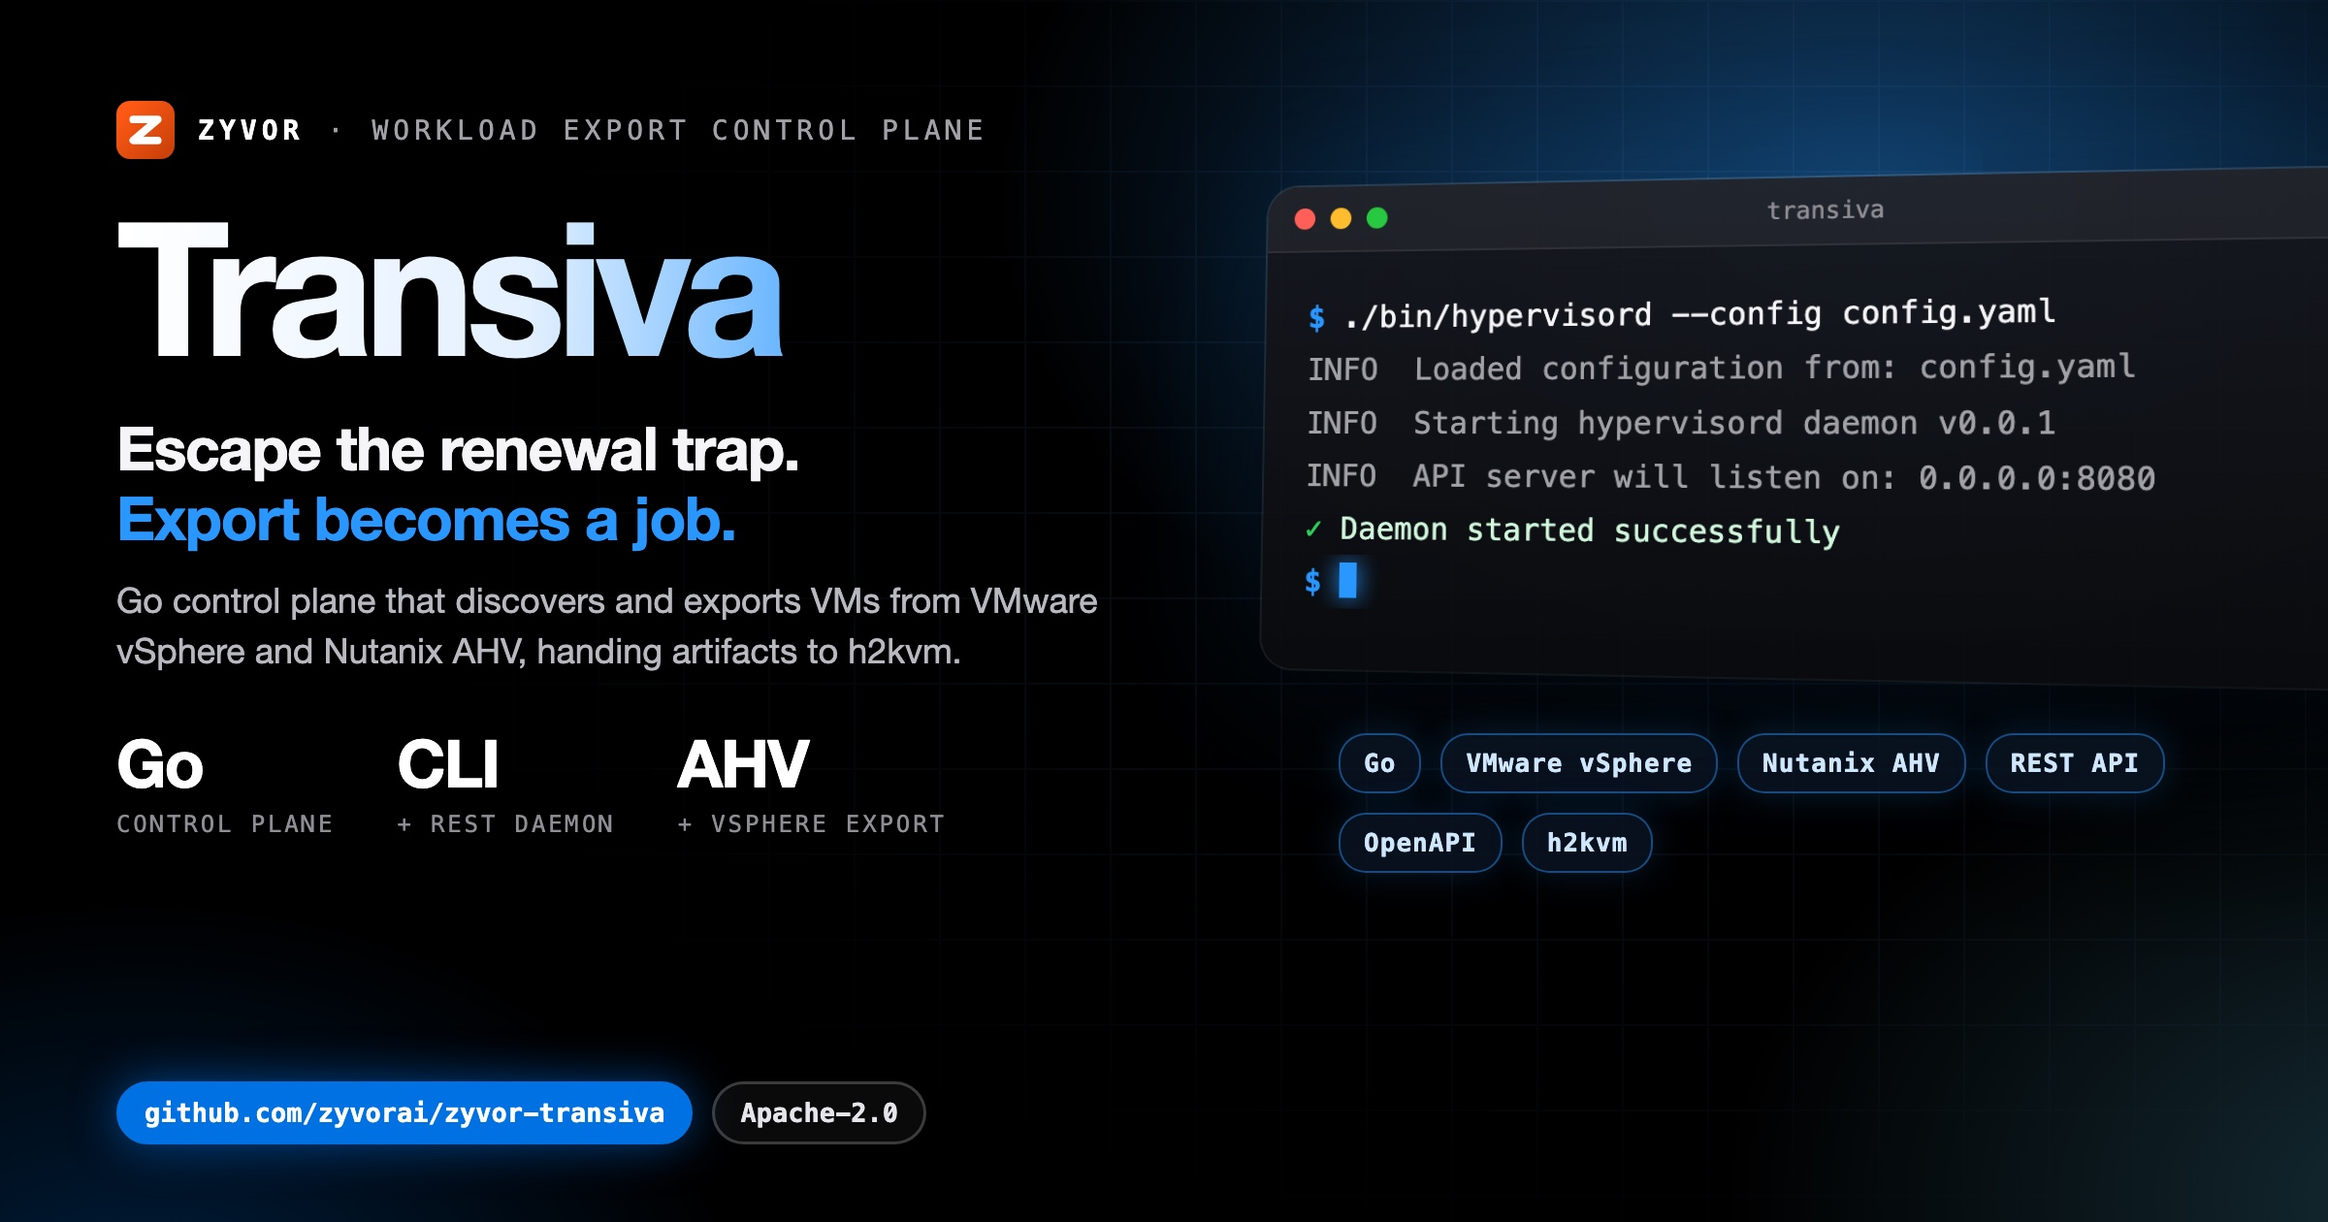
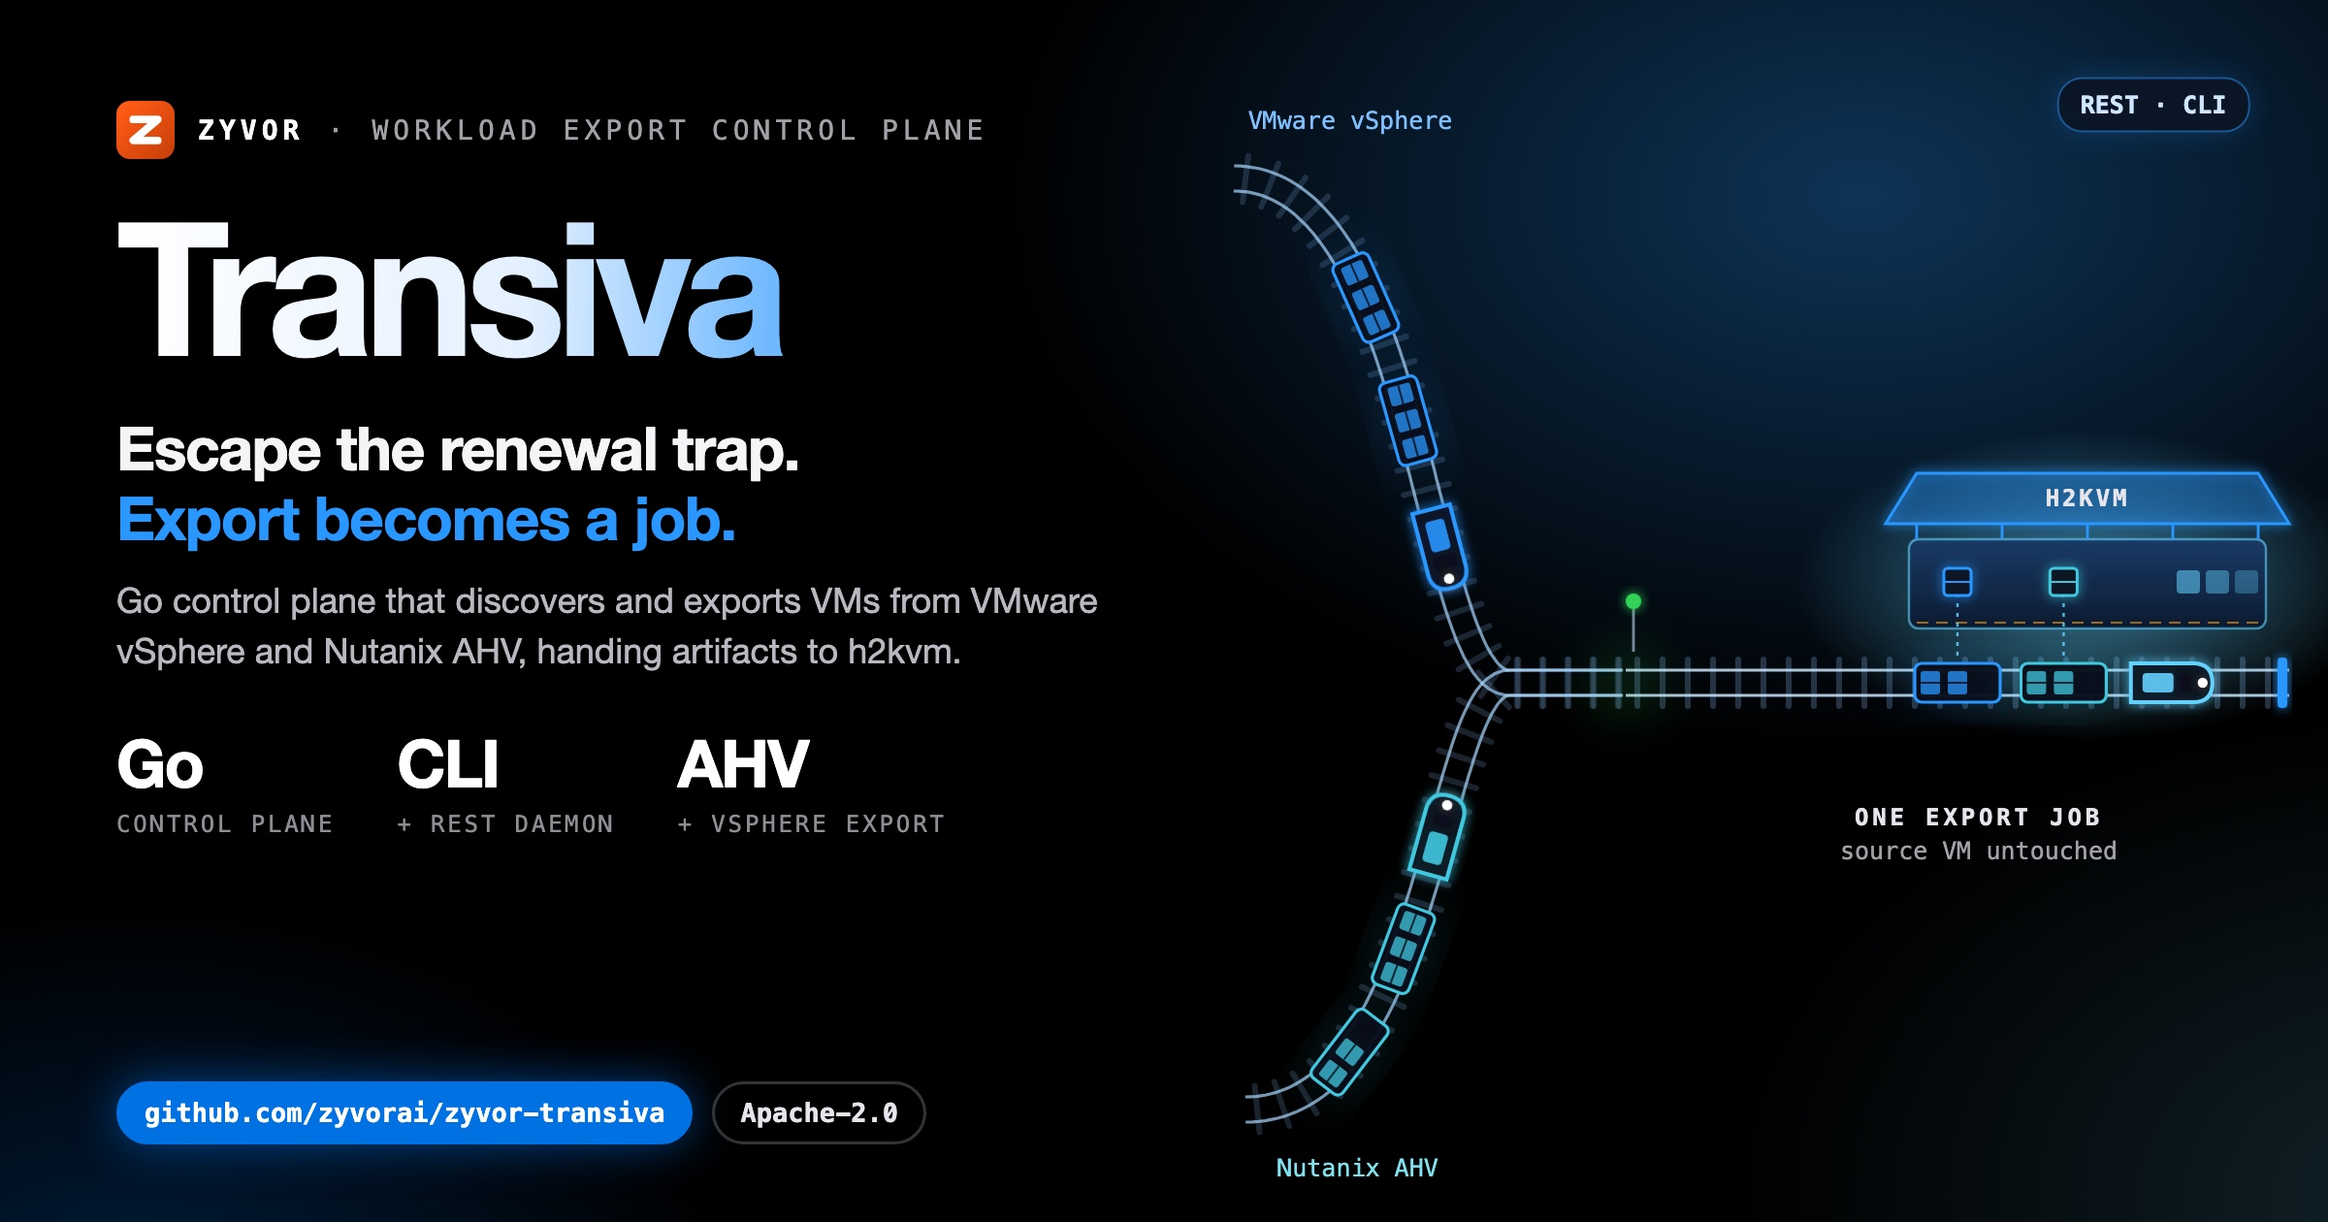
docs(social): unique illustrated hero card
Replace the shared terminal-window art with a motif drawn for this project;
same verified copy and stats on the left.

Changed region(s): [[0.5312, 0.0619, 1.0, 0.9286], [0.5625, 0.9286, 0.625, 0.9595]]

diff --git a/docs/social/transiva-hero-dark.html b/docs/social/transiva-hero-dark.html
@@ -8,58 +8,47 @@
   Build: ./docs/social/build-hero-dark.sh  ->  transiva-hero-dark.jpg (2400x1260)
 -->
 <style>
-  :root { --blue:#0071e3; --signal:#2997ff; --cyan:#64d2ff; --green:#30d158; --amber:#ff9f0a;
+  :root { --blue:#0071e3; --signal:#2997ff; --cyan:#64d2ff; --green:#30d158; --amber:#ff9f0a; --red:#ff453a; --violet:#bf5af2;
     --sans:'SF Pro Display','Helvetica Neue',Helvetica,Arial,sans-serif; --mono:'SF Mono',Menlo,Consolas,monospace; }
   * { box-sizing:border-box; }
   html,body { margin:0; padding:0; }
   body { width:1200px; height:630px; overflow:hidden; color:#f5f5f7; font-family:var(--sans); position:relative; background:#000; }
   .aurora { position:absolute; inset:0;
-    background:radial-gradient(720px 460px at 80% 16%, rgba(41,151,255,.40), transparent 62%),
-               radial-gradient(600px 420px at 104% 98%, rgba(100,210,255,.20), transparent 60%),
+    background:radial-gradient(720px 460px at 80% 16%, rgba(41,151,255,.34), transparent 62%),
+               radial-gradient(600px 420px at 104% 98%, rgba(100,210,255,.16), transparent 60%),
                radial-gradient(520px 380px at 6% 110%, rgba(0,113,227,.28), transparent 60%); }
-  .grid { position:absolute; inset:0; opacity:.09;
-    background-image:linear-gradient(rgba(120,180,255,.9) 1px,transparent 1px),linear-gradient(90deg,rgba(120,180,255,.9) 1px,transparent 1px);
-    background-size:44px 44px; -webkit-mask-image:radial-gradient(900px 520px at 72% 42%, #000 18%, transparent 75%); }
-  .left { position:absolute; left:60px; top:52px; width:560px; z-index:3; }
+  .copy { position:absolute; left:60px; top:52px; width:560px; z-index:3; }
   .brand { display:flex; align-items:center; gap:12px; font-family:var(--mono); font-size:14px; letter-spacing:.18em; text-transform:uppercase; color:#a1a1a6; }
   .brand b { color:#fff; }
   .word { margin:20px 0 0; font-size:96px; line-height:.95; font-weight:800; letter-spacing:-.05em; white-space:nowrap;
     background:linear-gradient(92deg,#fff 0%,#e3f0ff 38%,var(--signal) 74%,var(--cyan) 100%); -webkit-background-clip:text; background-clip:text; color:transparent; padding-bottom:6px; }
   .tag { margin:14px 0 0; font-size:31px; line-height:1.15; font-weight:700; letter-spacing:-.02em; }
   .tag em { font-style:normal; color:var(--signal); }
-  .lede { margin:12px 0 0; font-size:18px; line-height:1.45; color:#b8b8bf; width:520px; }
+  .lede { margin:12px 0 0; font-size:18px; line-height:1.45; color:#b8b8bf; width:520px; text-shadow:0 1px 12px #000; }
   .stats { margin-top:24px; display:flex; gap:32px; }
   .stat b { display:block; font-size:34px; font-weight:800; letter-spacing:-.03em; color:#fff; }
   .stat span { font-family:var(--mono); font-size:12px; letter-spacing:.12em; text-transform:uppercase; color:#8e8e93; }
   .pill { position:absolute; left:60px; bottom:40px; display:flex; gap:10px; z-index:3; }
-  .pill span { font-family:var(--mono); font-size:13.5px; font-weight:700; padding:7px 13px; border-radius:18px; border:1.5px solid rgba(255,255,255,.2); color:#e5e5ea; background:rgba(255,255,255,.04); }
+  .pill span { font-family:var(--mono); font-size:13.5px; font-weight:700; padding:7px 13px; border-radius:18px; border:1.5px solid rgba(255,255,255,.2); color:#e5e5ea; background:rgba(0,0,0,.6); }
   .pill span.b { background:var(--blue); border-color:var(--blue); color:#fff; box-shadow:0 0 24px rgba(0,113,227,.55); }
-
-  .right { position:absolute; left:652px; top:96px; width:560px; z-index:2; }
-  .win { position:relative; width:560px; border-radius:16px; overflow:hidden; z-index:2;
-    background:linear-gradient(180deg, rgba(22,24,30,.94), rgba(10,11,14,.96));
-    box-shadow:0 50px 100px rgba(0,0,0,.75), 0 0 0 1px rgba(255,255,255,.14), 0 0 90px rgba(41,151,255,.22);
-    transform:perspective(1600px) rotateY(-14deg) rotateX(4deg); transform-origin:left center; }
-  .bar { height:34px; display:flex; align-items:center; gap:8px; padding:0 14px; background:rgba(255,255,255,.05); border-bottom:1px solid rgba(255,255,255,.07); }
-  .bar i { width:11px; height:11px; border-radius:50%; background:#ff5f57; } .bar i:nth-child(2){background:#febc2e} .bar i:nth-child(3){background:#28c840}
-  .bar em { margin-left:auto; margin-right:auto; font-style:normal; font-family:var(--mono); font-size:12px; color:#8e8e93; transform:translateX(-24px); }
-  .term { min-height:214px; padding:20px 22px 24px; font-family:var(--mono); font-size:15.5px; line-height:1.75; }
-  .l { white-space:pre; overflow:hidden; text-overflow:ellipsis; color:#f5f5f7; }
-  .l .p { color:var(--signal); font-weight:700; }
-  .l.out { color:#a1a1a6; }
-  .l.cm { color:#6e6e73; }
-  .l.ok { color:#d1f7dc; } .l.ok span { color:var(--green); font-weight:700; }
-  .l.warn { color:#ffe1b0; } .l.warn span { color:var(--amber); font-weight:700; }
-  .cur { display:inline-block; width:9px; height:18px; background:var(--signal); vertical-align:-3px; box-shadow:0 0 12px var(--signal); }
-  .chips { margin:34px 0 0 38px; width:480px; display:flex; flex-wrap:wrap; gap:10px; position:relative; z-index:3; }
-  .chips span { font-family:var(--mono); font-size:13px; font-weight:700; letter-spacing:.04em; padding:7px 12px; border-radius:14px;
-    color:#cfe6ff; background:rgba(10,20,35,.82); border:1px solid rgba(41,151,255,.45); box-shadow:0 0 18px rgba(41,151,255,.18); }
+  .art { position:absolute; left:520px; top:0; width:680px; height:630px; z-index:2; }
+  .art svg { display:block; }
+  #labels { position:absolute; inset:0; z-index:4; pointer-events:none; }
+  .lbl { position:absolute; font-family:var(--mono); font-size:12.5px; color:#a1a1a6; text-align:center; transform:translate(-50%,-50%); white-space:nowrap; }
+  .lbl b { display:block; font-size:12px; letter-spacing:.16em; text-transform:uppercase; color:#e5e5ea; }
+  .lbl span { display:block; margin-top:3px; }
+  .lbl.box { padding:7px 12px; border-radius:12px; background:rgba(8,10,14,.85); border:1px solid rgba(255,255,255,.14); }
+  .lbl.chip { padding:6px 11px; border-radius:13px; font-size:12.5px; font-weight:700; color:#cfe6ff; background:rgba(10,20,35,.85); border:1px solid rgba(41,151,255,.5); box-shadow:0 0 16px rgba(41,151,255,.2); }
+  .lbl.left { transform:translate(0,-50%); text-align:left; }
+  .lbl.right { transform:translate(-100%,-50%); text-align:right; }
+  .ok { color:var(--green) !important; } .warn { color:var(--amber) !important; } .bad { color:var(--red) !important; } .sig { color:var(--signal) !important; } .cy { color:var(--cyan) !important; } .vi { color:var(--violet) !important; }
 </style>
 </head>
 <body>
 <div class="aurora"></div>
-<div class="grid"></div>
-<div class="left">
+<div class="art"><svg id="art" width="680" height="630" viewBox="0 0 680 630" xmlns="http://www.w3.org/2000/svg"></svg></div>
+<div id="labels"></div>
+<div class="copy">
   <div class="brand"><svg viewBox="0 0 64 64" width="30" height="30" aria-hidden="true"><defs><linearGradient id="zb" x1="8" y1="8" x2="56" y2="56" gradientUnits="userSpaceOnUse"><stop offset="0" stop-color="#ff5a15"/><stop offset="1" stop-color="#cc420a"/></linearGradient></defs><rect width="64" height="64" rx="15" fill="url(#zb)"/><path d="M18.5,20.5 45.5,20.5 18.5,43.5 45.5,43.5" fill="none" stroke="#fff" stroke-width="8.3" stroke-linecap="round" stroke-linejoin="round"/></svg><b>Zyvor</b><span>&middot;</span><span>Workload export control plane</span></div>
   <div class="word">Transiva</div>
   <div class="tag">Escape the renewal trap.<br><em>Export becomes a job.</em></div>
@@ -67,8 +56,120 @@
   <div class="stats"><div class="stat"><b>Go</b><span>control plane</span></div><div class="stat"><b>CLI</b><span>+ REST daemon</span></div><div class="stat"><b>AHV</b><span>+ vSphere export</span></div></div>
 </div>
 <div class="pill"><span class="b">github.com/zyvorai/zyvor-transiva</span><span>Apache-2.0</span></div>
-<div class="right"><div class="win"><div class="bar"><i></i><i></i><i></i><em>transiva</em></div>
-<div class="term"><div class="l"><span class="p">$</span> ./bin/hypervisord --config config.yaml</div><div class="l out">INFO  Loaded configuration from: config.yaml</div><div class="l out">INFO  Starting hypervisord daemon v0.0.1</div><div class="l out">INFO  API server will listen on: 0.0.0.0:8080</div><div class="l ok"><span>&#10003;</span> Daemon started successfully</div><div class="l"><span class="p">$</span> <i class="cur"></i></div></div></div>
-<div class="chips"><span>Go</span><span>VMware vSphere</span><span>Nutanix AHV</span><span>REST API</span><span>OpenAPI</span><span>h2kvm</span></div></div>
+<script>
+var Z = (function () {
+  var NS = 'http://www.w3.org/2000/svg', svg = document.getElementById('art'), labels = document.getElementById('labels');
+  var seed = 20261004;
+  function rnd() { seed = (seed * 1103515245 + 12345) % 2147483648; return seed / 2147483648; }
+  function el(tag, a, parent) { var n = document.createElementNS(NS, tag); for (var k in a) n.setAttribute(k, a[k]); (parent || svg).appendChild(n); return n; }
+  function g(attrs) { return el('g', attrs || {}); }
+  function label(x, y, inner, cls, style) { var d = document.createElement('div'); d.className = 'lbl ' + (cls || ''); d.style.left = (520 + x) + 'px'; d.style.top = y + 'px'; if (style) d.setAttribute('style', d.getAttribute('style') + ';' + style); d.innerHTML = inner; labels.appendChild(d); return d; }
+  return { NS: NS, svg: svg, W: 680, H: 630, rnd: rnd, el: el, g: g, label: label,
+    reseed: function (s) { seed = s; },
+    c: { blue: '#0071e3', signal: '#2997ff', cyan: '#64d2ff', green: '#30d158', amber: '#ff9f0a', red: '#ff453a', violet: '#bf5af2', teal: '#40c8e0', indigo: '#5e5ce6', pink: '#ff375f', white: '#f5f5f7', grey: '#8e8e93' } };
+})();
+(function () {
+// Transiva: rail yard. Export freight trains from vSphere and Nutanix AHV run on curving lines that merge
+// at a junction into one track, arriving at the h2kvm station where artifact crates are handed over.
+var C = Z.c;
+var defs = Z.el('defs', {});
+defs.innerHTML = '<filter id="tv-gl" x="-50%" y="-50%" width="200%" height="200%"><feGaussianBlur stdDeviation="3" result="b"/><feMerge><feMergeNode in="b"/><feMergeNode in="SourceGraphic"/></feMerge></filter>' +
+  '<filter id="tv-sf" x="-50%" y="-50%" width="200%" height="200%"><feGaussianBlur stdDeviation="14"/></filter>' +
+  '<linearGradient id="tv-plat" x1="0" y1="0" x2="0" y2="1"><stop offset="0" stop-color="#1a3b66"/><stop offset="1" stop-color="#0b1a30"/></linearGradient>' +
+  '<radialGradient id="tv-lamp"><stop offset="0" stop-color="#64d2ff" stop-opacity=".55"/><stop offset="1" stop-color="#64d2ff" stop-opacity="0"/></radialGradient>';
+
+var J = { x: 318, y: 352 }, ST = { x: 556, y: 352 };
+var lines = {
+  vs: 'M116,92 C214,92 214,352 ' + (J.x - 60) + ',' + J.y + ' L' + J.x + ',' + J.y,
+  ahv: 'M122,572 C220,572 220,352 ' + (J.x - 60) + ',' + J.y + ' L' + J.x + ',' + J.y,
+  main: 'M' + J.x + ',' + J.y + ' L660,' + J.y
+};
+
+// soft glow under the shared line
+Z.el('line', { x1: J.x, y1: J.y, x2: 660, y2: J.y, stroke: C.signal, 'stroke-width': 26, opacity: .12, filter: 'url(#tv-sf)' });
+
+function track(d, sleeperCol, railCol) {
+  var p = Z.el('path', { d: d, fill: 'none', stroke: 'none' }), L = p.getTotalLength();
+  var g = Z.g({});
+  for (var s = 6; s < L; s += 13) {
+    var a = p.getPointAtLength(s), b = p.getPointAtLength(Math.min(L, s + 1)), ang = Math.atan2(b.y - a.y, b.x - a.x), nx = -Math.sin(ang), ny = Math.cos(ang);
+    Z.el('line', { x1: a.x + nx * 12, y1: a.y + ny * 12, x2: a.x - nx * 12, y2: a.y - ny * 12, stroke: sleeperCol, 'stroke-width': 3, 'stroke-linecap': 'round' }, g);
+  }
+  [-6.5, 6.5].forEach(function (o) {
+    var d2 = '';
+    for (var s = 0; s <= L; s += 3) {
+      var a = p.getPointAtLength(s), b = p.getPointAtLength(Math.min(L, s + 1)), c0 = s + 1 > L ? p.getPointAtLength(s - 1) : a;
+      var ang = s + 1 > L ? Math.atan2(a.y - c0.y, a.x - c0.x) : Math.atan2(b.y - a.y, b.x - a.x);
+      d2 += (s ? 'L' : 'M') + (a.x - Math.sin(ang) * o).toFixed(1) + ',' + (a.y + Math.cos(ang) * o).toFixed(1);
+    }
+    Z.el('path', { d: d2, fill: 'none', stroke: railCol, 'stroke-width': 1.6 }, g);
+  });
+  return p;
+}
+var pVs = track(lines.vs, 'rgba(120,160,210,.22)', 'rgba(170,215,255,.7)');
+var pAhv = track(lines.ahv, 'rgba(120,160,210,.22)', 'rgba(170,215,255,.7)');
+var pMain = track(lines.main, 'rgba(120,160,210,.3)', 'rgba(200,230,255,.85)');
+
+// station platform and canopy
+Z.el('ellipse', { cx: ST.x, cy: ST.y - 50, rx: 150, ry: 80, fill: 'url(#tv-lamp)' });
+Z.el('rect', { x: ST.x - 92, y: ST.y - 74, width: 184, height: 46, rx: 5, fill: 'url(#tv-plat)', stroke: 'rgba(100,210,255,.6)', 'stroke-width': 1.2 });
+Z.el('line', { x1: ST.x - 88, y1: ST.y - 31, x2: ST.x + 88, y2: ST.y - 31, stroke: C.amber, 'stroke-width': 1, 'stroke-dasharray': '6 4', opacity: .6 });
+Z.el('path', { d: 'M' + (ST.x - 104) + ',' + (ST.y - 82) + ' L' + (ST.x + 104) + ',' + (ST.y - 82) + ' L' + (ST.x + 88) + ',' + (ST.y - 108) + ' L' + (ST.x - 88) + ',' + (ST.y - 108) + 'Z', fill: 'rgba(41,151,255,.22)', stroke: C.signal, 'stroke-width': 1.5, filter: 'url(#tv-gl)' });
+for (var c = -2; c <= 2; c++) Z.el('line', { x1: ST.x + c * 44, y1: ST.y - 82, x2: ST.x + c * 44, y2: ST.y - 74, stroke: C.signal, 'stroke-width': 1.4 });
+// buffer stop at end of the line
+Z.el('rect', { x: 654, y: J.y - 13, width: 5, height: 26, rx: 2, fill: C.signal, filter: 'url(#tv-gl)' });
+
+// junction signal
+Z.el('circle', { cx: J.x, cy: J.y, r: 18, fill: C.green, opacity: .18, filter: 'url(#tv-sf)' });
+Z.el('line', { x1: J.x + 4, y1: J.y - 16, x2: J.x + 4, y2: J.y - 38, stroke: 'rgba(200,220,255,.6)', 'stroke-width': 1.4 });
+Z.el('circle', { cx: J.x + 4, cy: J.y - 42, r: 4, fill: C.green, filter: 'url(#tv-gl)' });
+
+// freight cars: top-down wagons carrying artifact crates
+function car(p, t, col, crates) {
+  var L = p.getTotalLength(), a = p.getPointAtLength(L * t), b = p.getPointAtLength(Math.min(L, L * t + 1));
+  var ang = Math.atan2(b.y - a.y, b.x - a.x) * 180 / Math.PI;
+  var g = Z.g({ transform: 'translate(' + a.x.toFixed(1) + ',' + a.y.toFixed(1) + ') rotate(' + ang.toFixed(1) + ')' });
+  Z.el('rect', { x: -24, y: -11, width: 48, height: 22, rx: 4, fill: col, opacity: .18, filter: 'url(#tv-sf)' }, g);
+  Z.el('rect', { x: -22, y: -10, width: 44, height: 20, rx: 3.5, fill: 'rgba(8,14,26,.96)', stroke: col, 'stroke-width': 1.6 }, g);
+  for (var i = 0; i < crates; i++) {
+    var cx = -14 + i * 14;
+    Z.el('rect', { x: cx - 5, y: -6, width: 10, height: 12, rx: 1.5, fill: col, opacity: .75 }, g);
+    Z.el('line', { x1: cx - 5, y1: 0, x2: cx + 5, y2: 0, stroke: 'rgba(6,10,18,.8)', 'stroke-width': 1 }, g);
+  }
+  return a;
+}
+function loco(p, t, col) {
+  var L = p.getTotalLength(), a = p.getPointAtLength(L * t), b = p.getPointAtLength(Math.min(L, L * t + 1));
+  var ang = Math.atan2(b.y - a.y, b.x - a.x) * 180 / Math.PI;
+  var g = Z.g({ transform: 'translate(' + a.x.toFixed(1) + ',' + a.y.toFixed(1) + ') rotate(' + ang.toFixed(1) + ')', filter: 'url(#tv-gl)' });
+  Z.el('path', { d: 'M-20,-10 L12,-10 Q22,-10 22,0 Q22,10 12,10 L-20,10 Z', fill: 'rgba(8,14,26,.96)', stroke: col, 'stroke-width': 2 }, g);
+  Z.el('rect', { x: -14, y: -5, width: 16, height: 10, rx: 2, fill: col, opacity: .9 }, g);
+  Z.el('circle', { cx: 17, cy: 0, r: 2.6, fill: '#fff' }, g);
+  return a;
+}
+// vSphere train on the upper line, Nutanix AHV train on the lower line, both heading for the junction
+var cvs = C.signal, cahv = C.teal;
+loco(pVs, 0.62, cvs); car(pVs, 0.44, cvs, 3); car(pVs, 0.26, cvs, 3);
+loco(pAhv, 0.55, cahv); car(pAhv, 0.37, cahv, 3); car(pAhv, 0.19, cahv, 2);
+// arrived train at the station: crates lifted from each wagon onto the platform
+var w1 = car(pMain, 0.5, cvs, 2), w2 = car(pMain, 0.66, cahv, 2); loco(pMain, 0.82, C.cyan);
+[w1, w2].forEach(function (w, i) {
+  Z.el('line', { x1: w.x, y1: w.y - 14, x2: w.x, y2: ST.y - 48, stroke: C.cyan, 'stroke-width': 1.2, 'stroke-dasharray': '2 3', opacity: .85 });
+  var g = Z.g({ transform: 'translate(' + w.x.toFixed(1) + ',' + (ST.y - 52) + ')', filter: 'url(#tv-gl)' });
+  Z.el('rect', { x: -7, y: -7, width: 14, height: 14, rx: 2, fill: 'rgba(8,14,26,.96)', stroke: i ? C.teal : C.signal, 'stroke-width': 1.5 }, g);
+  Z.el('line', { x1: -7, y1: 0, x2: 7, y2: 0, stroke: i ? C.teal : C.signal, 'stroke-width': 1 }, g);
+});
+for (var k = 0; k < 3; k++) {
+  var g = Z.g({ transform: 'translate(' + (ST.x + 52 + k * 15) + ',' + (ST.y - 52) + ')' });
+  Z.el('rect', { x: -6, y: -6, width: 12, height: 12, rx: 2, fill: C.cyan, opacity: .55 - k * .12 }, g);
+}
+
+Z.label(ST.x, ST.y - 95, '<b style="letter-spacing:.12em">h2kvm</b>');
+Z.label(176, 62, '<span style="margin:0;color:#7fbfff">VMware vSphere</span>');
+Z.label(180, 602, '<span style="margin:0;color:#7fe0ee">Nutanix AHV</span>');
+Z.label(500, 430, '<b>one export job</b><span>source VM untouched</span>');
+Z.label(590, 54, 'REST &middot; CLI', 'chip');
+})();
+</script>
 </body>
 </html>
